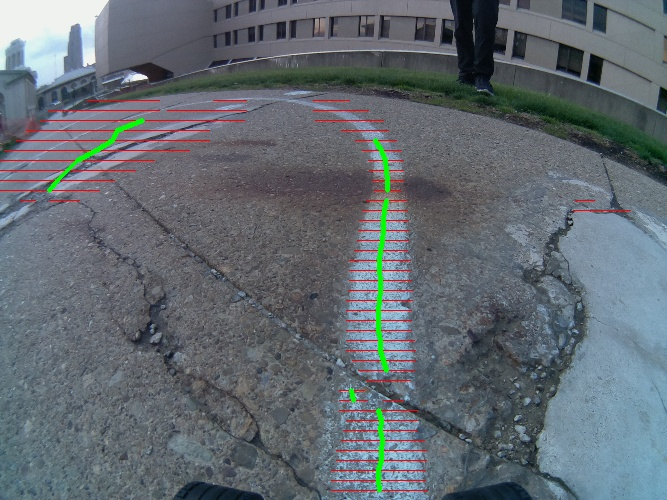
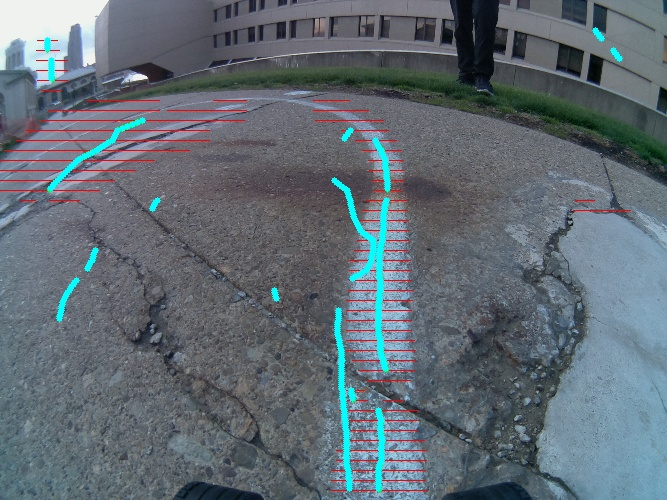
sobels

diff --git a/line_detector.py b/line_detector.py
@@ -5,6 +5,8 @@ from cv2_utils import *
 
 from skimage import filters
 
+WAYPOINTS = []
+
 class RowLines():
     def __init__(self, r, c_rngs):
         self.r = r
@@ -28,6 +30,7 @@ class RowLines():
                         curr_cntr = int(np.mean(c_rng))
                         prev_cntr = int(np.mean(prev_c_rng))
                         cv2.line(orig, (prev_cntr, prev_row_lines.r), (curr_cntr, self.r), (0, 255, 0), 3)
+                        WAYPOINTS.append((curr_cntr, self.r))
                         self.down_edges[i] = j
                         break
         print(self.c_rngs)
@@ -53,7 +56,7 @@ def draw_lines(orig, segmented, r):
             length = 0
     return lines
 
-img_idx = 0
+img_idx = 11
 while True:
     fname = f'test/{img_idx}.jpg'
     print(fname)
@@ -74,21 +77,25 @@ while True:
     thresh_val = np.percentile(crop, 90, axis=(0,1))
     print(thresh_val)
 
-    # accentuate curves
-    blur_new = cv2.blur(bgr2gray(orig), (25,25))
+    # sobel curves
+    blur_new = cv2.blur(gray, (5,5))
     edges = cv2.Sobel(blur_new,cv2.CV_8U,1,0,ksize=5)
-    edges[edges < np.percentile(edges, 98)] = 0
-    edges[edges >= np.percentile(edges, 98)] = 255
+    translation_matrix = np.float32([ [1,0,20], [0,1,0] ])
+    edges[edges < np.percentile(edges, 95)] = 0
+    edges[edges >= np.percentile(edges, 95)] = 255
     cv2_view(edges=edges)
-
-    blur[edges==255] = blur*1.3
-    blur = blur / np.max(blur)
-    cv2_view(edges=blur)
+    # shift right
+    edges[:,20:] = edges[:,:-20]
+    edges[:,:20] = 0
+    cv2_view(edges=edges)
+    edges = bin2gray(np.bitwise_and(blur_new > thresh_val, edges))
+    print('this is cool')
+    cv2_view(edges=edges)
     
     # globally segment lines generously
     val = filters.threshold_otsu(crop)
     _, thresh_init = cv2.threshold(gray,val-5,255,cv2.THRESH_BINARY)
-    gray[thresh_init==0] = 0
+    gray[np.bitwise_and(thresh_init==0, edges==0)] = 0
     cv2_view(thresh=thresh_init)
     cv2_view(blur=gray)
 
@@ -96,7 +103,7 @@ while True:
     print(np.std(gray), np.std(gray[thresh_init!=0]))
     val = filters.threshold_otsu(gray[thresh_init!=0])-10
     _, thresh_stray = cv2.threshold(gray,val,255,cv2.THRESH_BINARY)
-    gray[thresh_stray==0] = 0
+    gray[np.bitwise_and(thresh_stray==0, edges==0)] = 0
     cv2_view(thresh_stray=thresh_stray)
 
     # remove small segments
@@ -138,6 +145,10 @@ while True:
         rp = len(lines_by_row)-r-1
         lines_by_row[rp].draw_interrow_lines(orig, lines_by_row[rp+1])
 
+    for pt in WAYPOINTS:
+        cv2.circle(orig, (pt[0], pt[1]), 3, (255, 255, 0), -1)
+
+
     # through away connected segments with fewer than 10 points
 
     # cntr_pts = []
@@ -167,8 +178,6 @@ while True:
     # for line in lines:
     #     cv2.line(orig, (line[1], line[0]), (line[2], line[0]), (0, 0, 255), 1)
 
-    # for pt in cntr_pts:
-    #     cv2.circle(orig, (pt[0], pt[1]), 3, (0, 255, 0), -1)
 
 
 
@@ -204,5 +213,6 @@ while True:
     # # cv2.imshow("img",circ)
     # # cv2_wait()
     
+    cv2_view(orig=orig)
     cv2.imwrite('results/%d.jpg' % img_idx, orig)
     img_idx += 1
